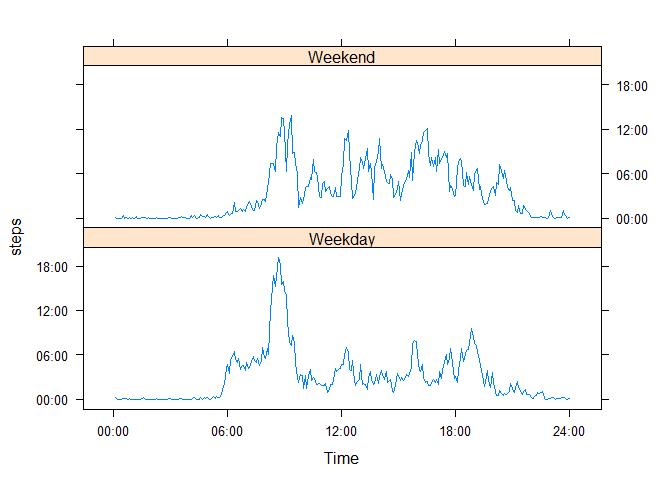
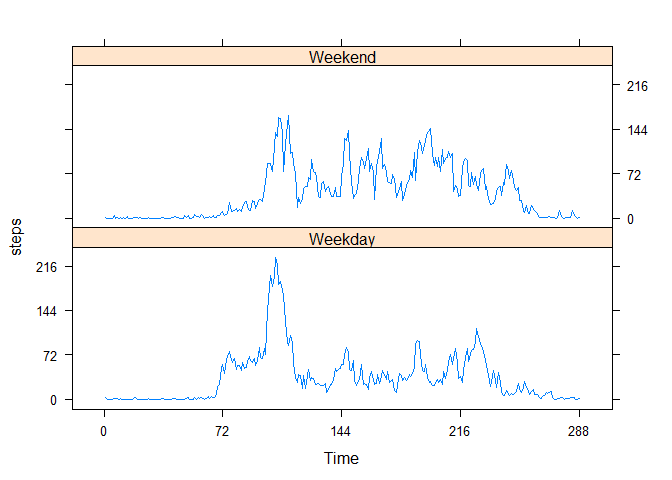
Final final commit
Fixed a few small typos

diff --git a/PA1_template.md b/PA1_template.md
@@ -32,6 +32,7 @@ hist(agg$steps, main="Steps per day", xlab="Steps")
 ```
 
 ![plot of chunk unnamed-chunk-3](./PA1_template_files/figure-html/unnamed-chunk-3.png) 
+
 Mean
 
 ```r
@@ -41,6 +42,7 @@ mean(agg$steps)
 ```
 ## [1] 10766
 ```
+
 Median
 
 ```r
@@ -61,7 +63,7 @@ Create dataset of average steps per 5 minute time chunk
 agg <- aggregate(steps ~ interval, data=dd, mean, na.rm=TRUE)
 ```
 
-Use chron:::time to define a time series and avoid stright stretches representing the nonexistant 45 mins between HH55 and HH00.
+Use chron:::time to define a time series and avoid straight stretches representing the nonexistant 45 mins between HH55 and HH00.
 
 
 ```r
@@ -93,7 +95,7 @@ agg$interval[agg$steps == max(agg$steps)]
 ```
 ## [1] 835
 ```
-which presumably corresponds to the travel to work.
+which presumably corresponds to the travel to work or pre-work sports.
 
 ## Imputing missing values
 Vector of mean values matching the appropriate values in original data...
@@ -152,7 +154,7 @@ library(lattice)
 ```
 
 ```r
-xyplot(steps ~ t | weekend, data= agg, layout=c(1, 2), scales=list(at=seq(0, nrow(agg), 72), labels=c("00:00", "06:00", "12:00", "18:00", "24:00")), xlab="Time", type="l")
+xyplot(steps ~ t | weekend, data= agg, layout=c(1, 2), scales=list(at=seq(0, nrow(agg), 72), x.labels=c("00:00", "06:00", "12:00", "18:00", "24:00")), xlab="Time", type="l")
 ```
 
 ![plot of chunk unnamed-chunk-14](./PA1_template_files/figure-html/unnamed-chunk-14.png) 
